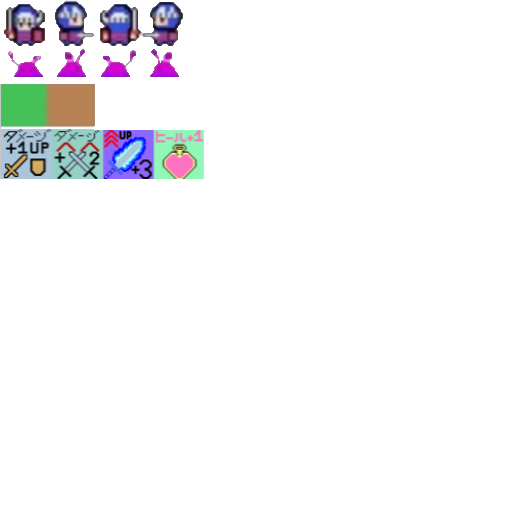
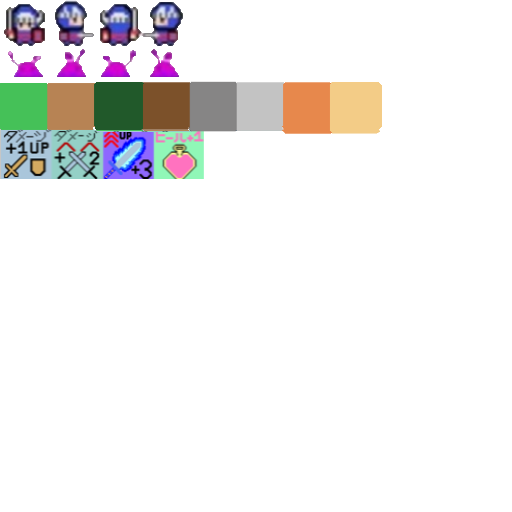
l

Changed region(s): [[0.0, 0.1562, 0.75, 0.2812], [0.0, 0.1562, 0.0312, 0.1875]]

diff --git a/pr/pr/ObjRoad2.cpp b/pr/pr/ObjRoad2.cpp
@@ -2260,6 +2260,7 @@ void CObjRoad2::Draw()
 	float gl[4] = { 0.3f,0.3f,0.3f,1.0f };
 	float y[4] = { 1.0f,1.0f,0.0f,1.0f };
 	float p[4] = { 1.0f,0.5f,0.5f,1.0f };
+	float br[4] = { 0.7f,0.3f,0.0f,1.0f };
 
 	RECT_F src;
 	RECT_F dst;
@@ -2307,8 +2308,8 @@ void CObjRoad2::Draw()
 
 
 	src.m_top = 90.0f;
-	src.m_left = 45.0f;
-	src.m_right = 85.0f;
+	src.m_left = 142.0f;
+	src.m_right = 190.0f;
 	src.m_bottom = 125.0f;
 
 	for (int i = 0; i < PIECE; i++)

diff --git a/pr/pr/ObjRoad.cpp b/pr/pr/ObjRoad.cpp
@@ -1480,7 +1480,7 @@ void CObjRoad::Draw()
 	float b [4]  = { 0.0f,0.0f,1.0f,1.0f };
 	float gl[4]  = { 0.3f,0.3f,0.3f,1.0f };
 	float y [4]  = { 1.0f,1.0f,0.0f,1.0f };
-	float p [4]  = { 1.0f,0.5f,0.5f,1.0f };
+	float br [4]  = { 0.6f,0.3f,0.0f,1.0f };
 
 	RECT_F src;
 	RECT_F dst;
